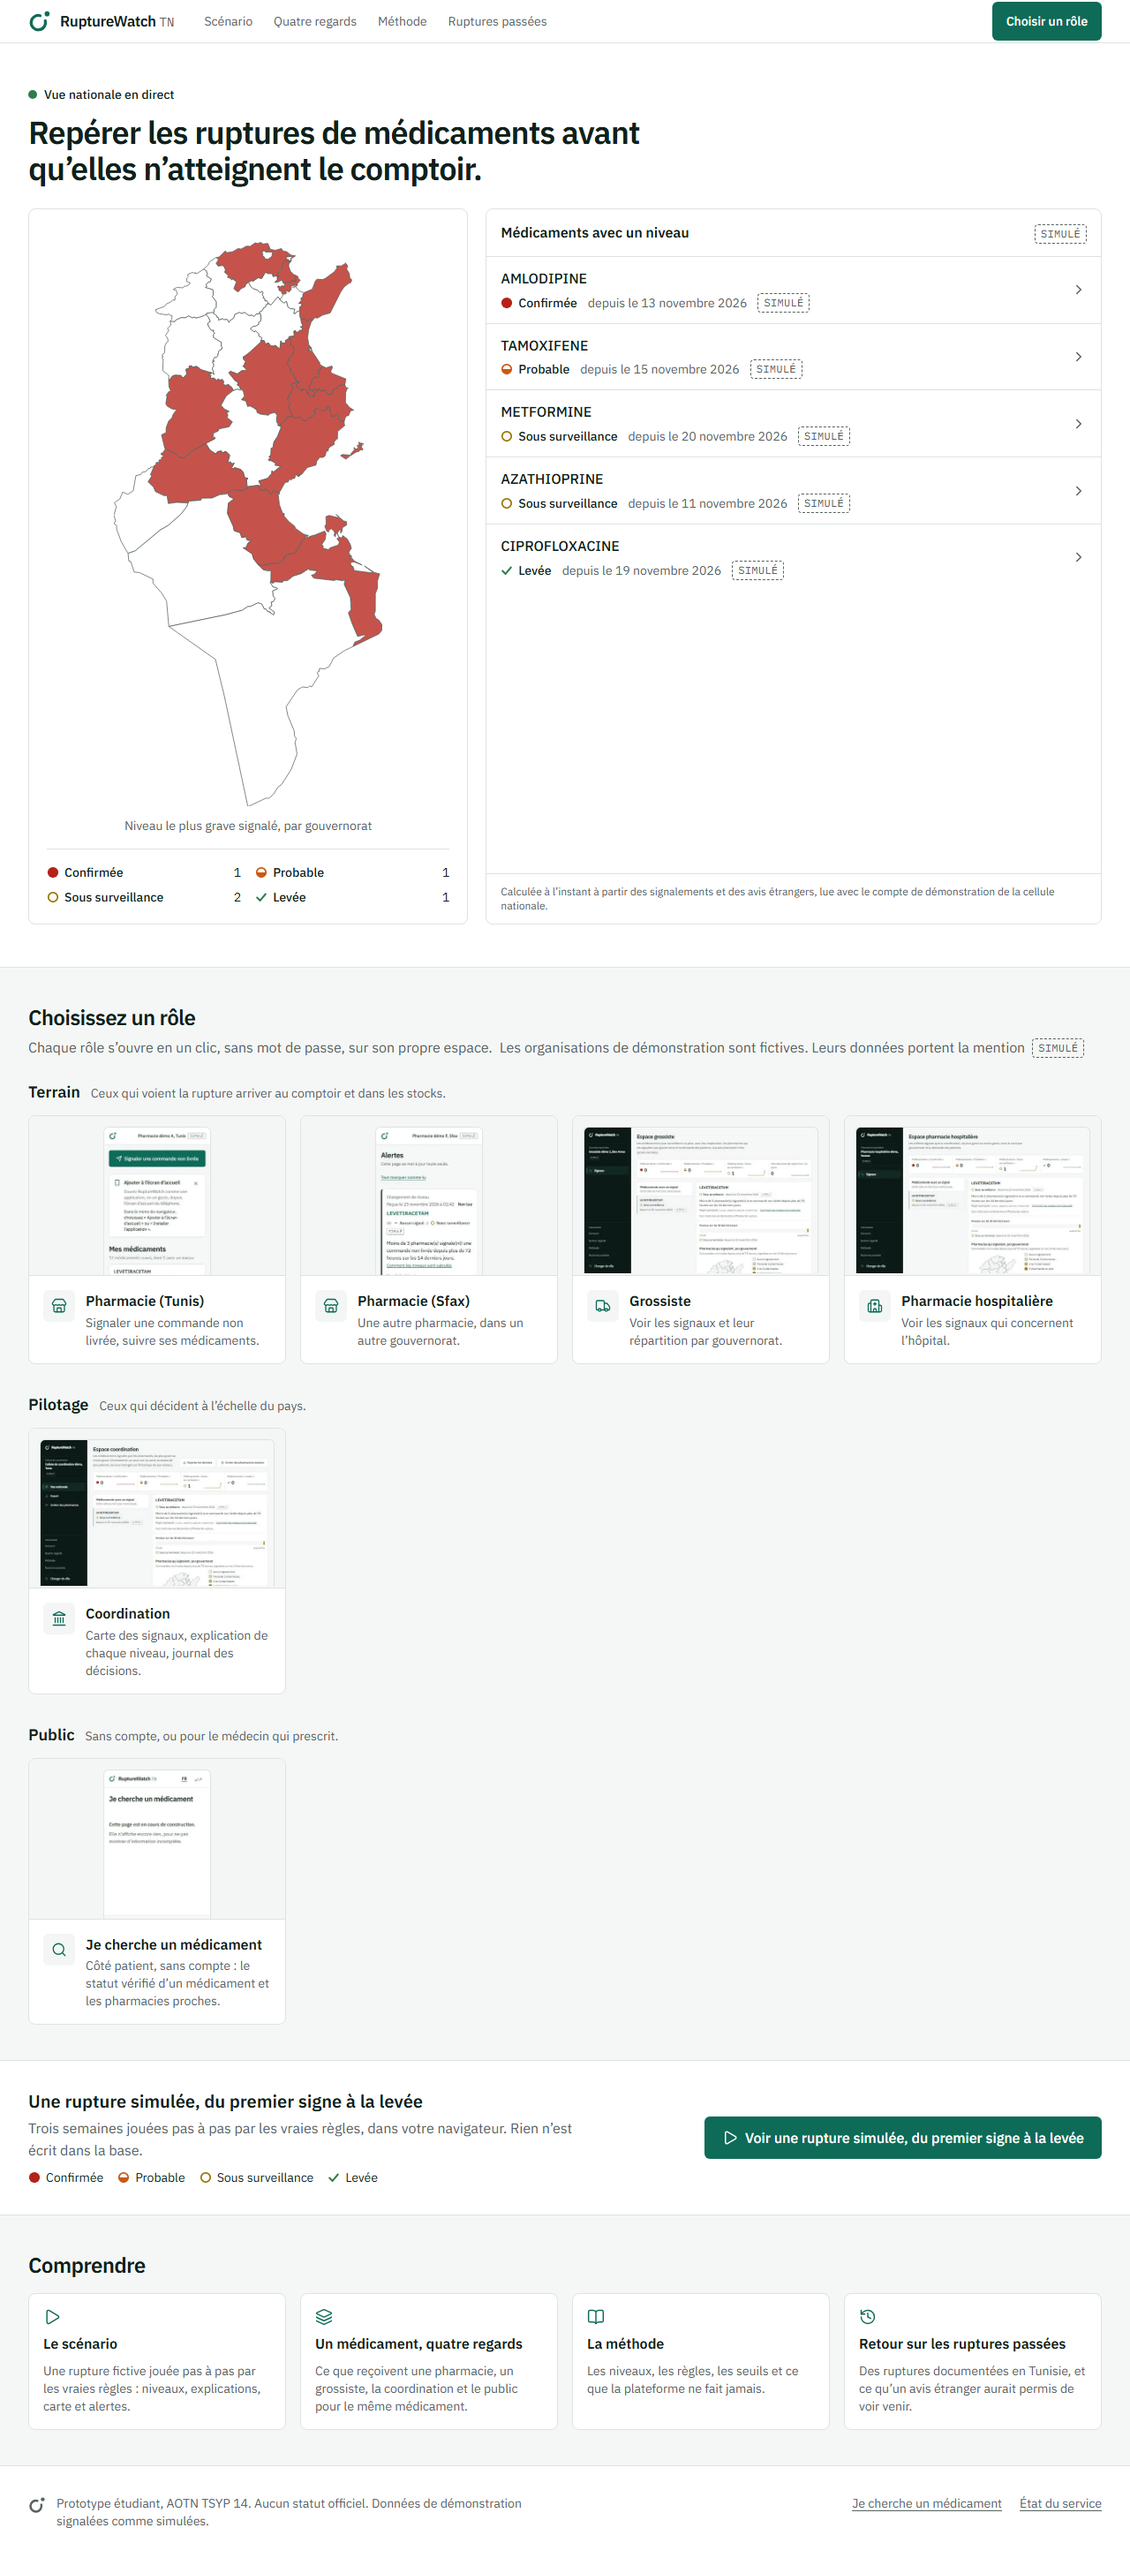
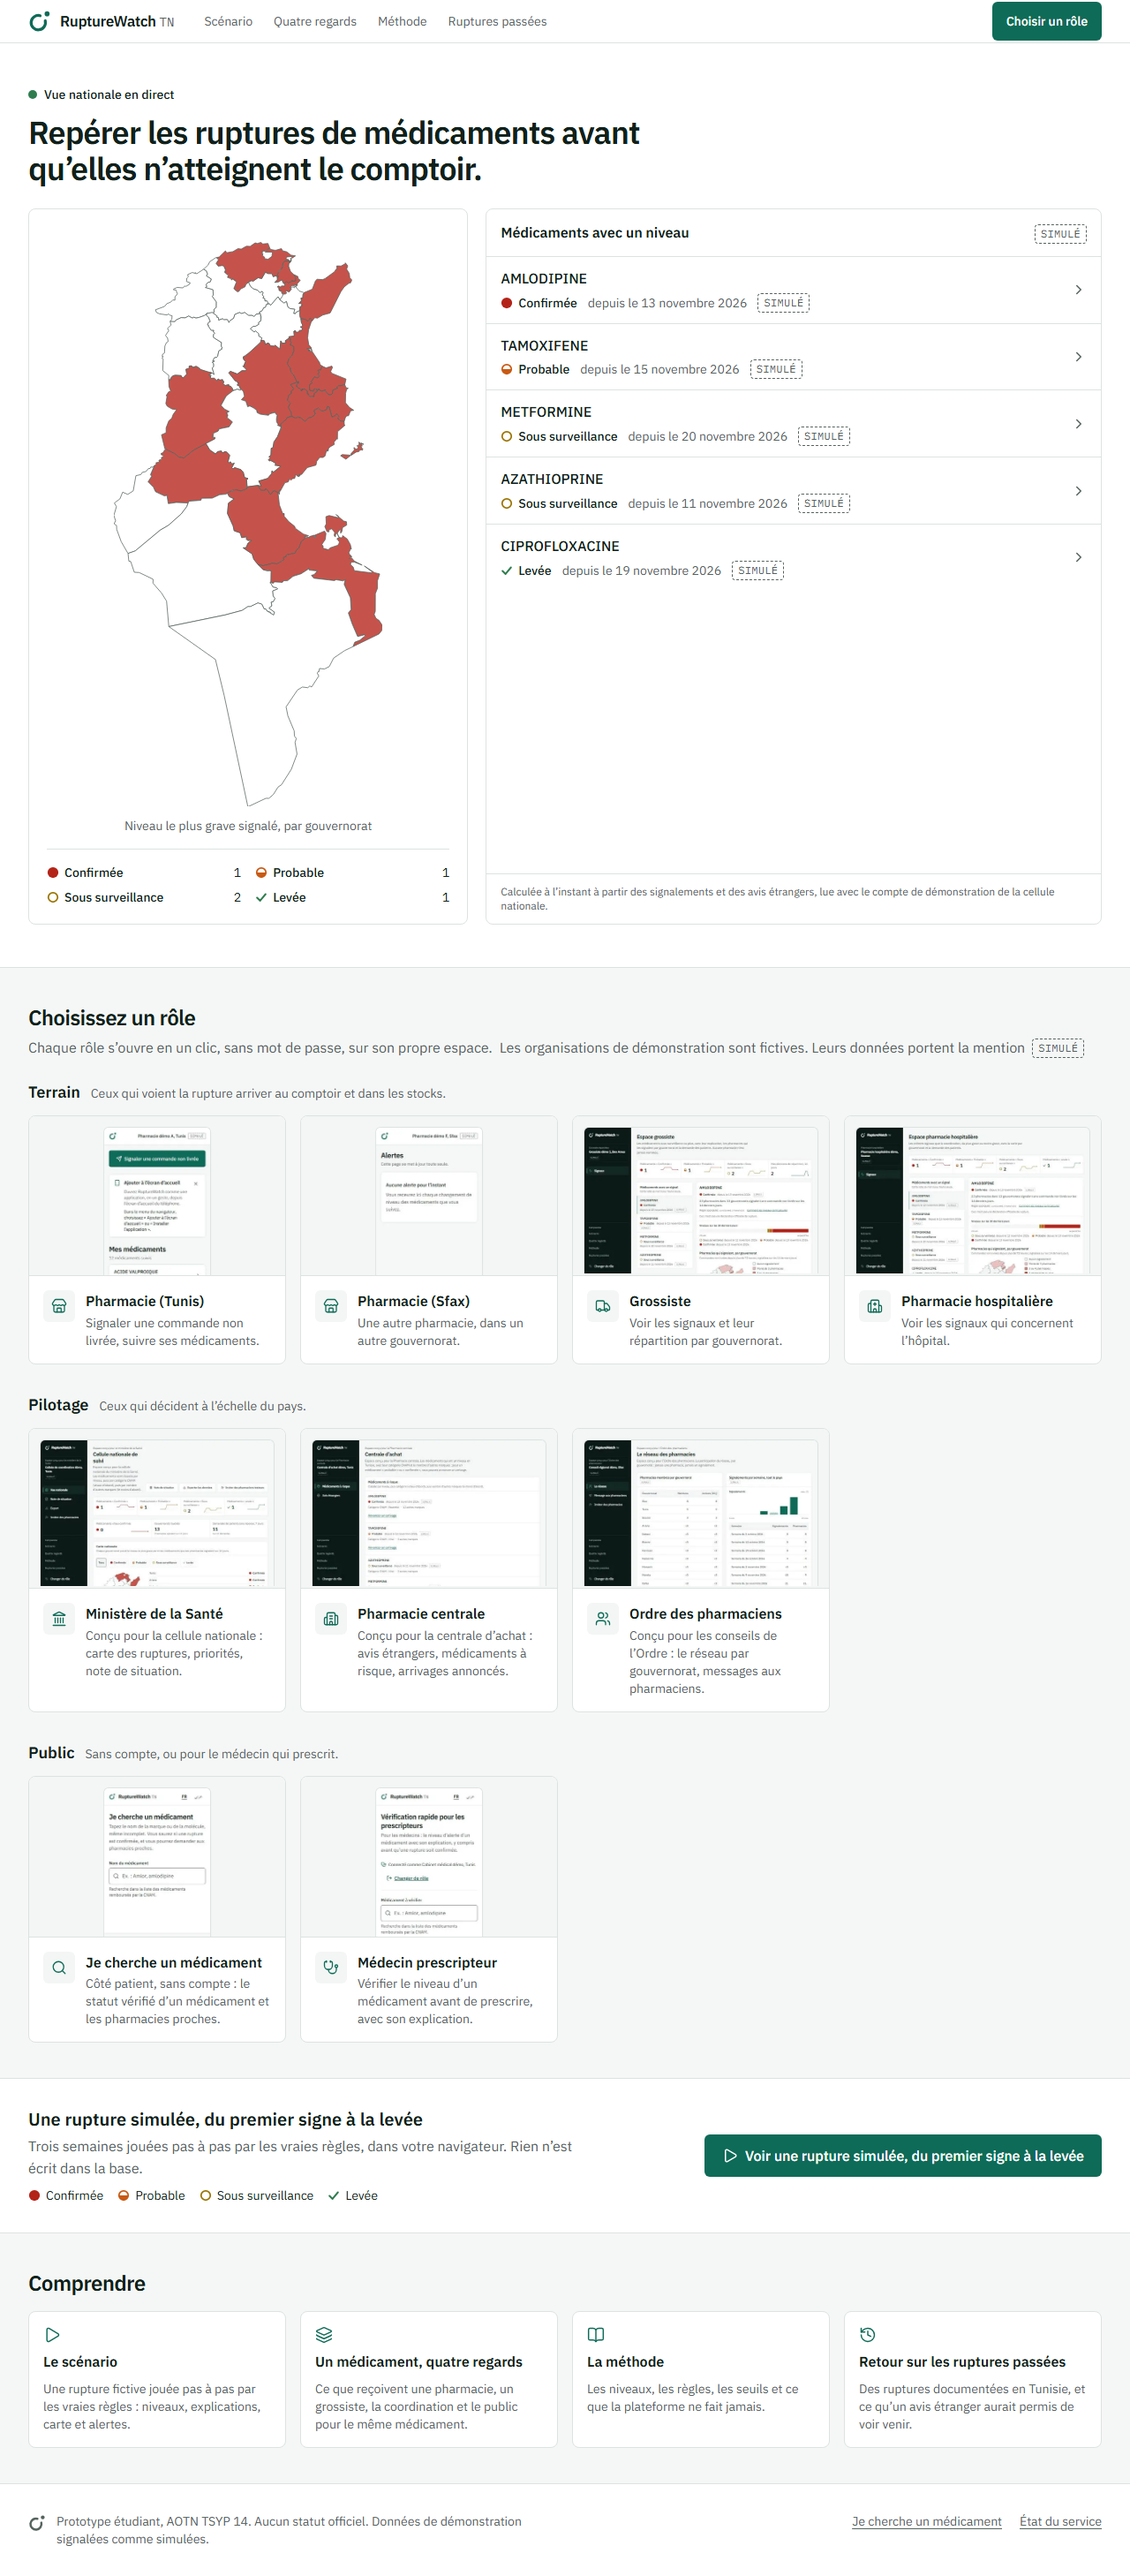
Session 5 report: parts 4 and 5, previews, deployed checks, the salt still to fix

diff --git a/docs/reports/session-5.md b/docs/reports/session-5.md
@@ -2,7 +2,7 @@
 
 Run on `main` (track A), brief `docs/briefs/session-5.md`, parts 1 to 5 in order. Each part is committed and pushed when finished. Deployed site: https://rupturewatch-tn.vercel.app.
 
-This report is written as the session goes. Part 1 (the new design) is on the deployed site; its screenshots are below so the direction can be checked now.
+All five parts are done and on the deployed site. Parts 1 to 3 were done first; the session then stopped at the usage limit and was continued for parts 4 and 5, the home page previews and the deployed checks. One check is still blocked, outside the code: patients' requests on the deployed site wait for `DEVICE_HASH_SALT` to be visible to Production (see the end).
 
 ## Part 1: the new design, on the deployed site
 
@@ -102,10 +102,88 @@ A phone can ask for amlodipine once a day: for a second take, use another privat
 
 All new Arabic texts are in `messages/ar/public.json` under `public.medicines`, `public.medicine`, `public.request`, `public.watch`, `public.past`, `public.prescribers`, `public.origin` and `public.dpm.searchTitle`. The seven texts the brief gives word for word are used as given. The others are my drafts and need a native reader, in particular: "{n} من الأصناف في قائمة الكنام" (presentations), "حريف" (customer, Tunisian usage) in `request.waitingBody`, "استظهر بوصفتك الطبية" (present your prescription), the CNAM categories "حيوي / أساسي / وسيط", and the origin badges "مصدر رسمي / مُختبِر / محاكاة". The professional parts of `/prescripteurs` (level and explanation) stay in French, marked `lang="fr"`.
 
-## Parts 4 and 5
+## Part 4: "levée" holds
 
-Not done in this session: the usage limit was reached after part 3.
+Commit `957cb6a`, migration `20261123200000_signal_cleared_at.sql` applied to the live project before the push.
 
-Part 4, where to start. In `lib/signal/evaluate.ts`, a "levée" moves back to "sous surveillance" whenever `rawLevel` finds an active foreign notice (`foreign_notice_only`), even one published long before the levée (notices stay active 90 days). Reports are not a problem: `quietDays` (14) equals `confirmWindowDays` (14), so no old report is still counted at a levée. The fix needs the levée time after "levée" itself has expired to "aucun signal": `previous.since` is no longer the levée then, so a notice from before the levée would raise the level 7 days later. Proposed: an optional `clearedAt` in `PreviousState`, carried by `evaluate()` and stored with the signal (one migration), and a notice published before `clearedAt` does not count alone; new Tunisian reports raise the level as today. Test first in `tests/signal.test.ts`, then `docs/DECISIONS.md`, the scenario and the methods page.
+- **The rule.** A foreign notice published before a medicine became "levée" no longer raises it on its own. A notice published after the levée, or new Tunisian reports, still do. Gate one is unchanged: notices alone never go above "sous surveillance".
+- **How.** `evaluate()` carries a `clearedAt` time (`PreviousState.clearedAt`, `Evaluation.clearedAt`). It is set when the level becomes "levée" and kept after "levée" expires to "aucun signal", so a 90-day notice from before the levée cannot come back 7 days later. The signal service stores it in `signals.cleared_at` (backfilled from the last "levée" event) and passes it to `apply_signal_evaluation()`, which takes it as a tenth argument (the nine-argument version is dropped in the next migration).
+- **Tests first.** Seven new cases in `tests/signal.test.ts`: the levée time is recorded; a notice active before the levée does not raise it; without a stored time, a shown "levée" counts from its start; once "levée" has expired the old notice still does not count alone; a notice published after the levée raises it to "sous surveillance" and no further (gate one); a new notice from the same regulator counts; new Tunisian reports raise the level as before. The file now has 43 tests; CLAUDE.md §3 still says 31. Plus `tests/signal-service.test.ts` (the time survives the levée fading) and `tests/explore.test.ts` (the scenario's last day is "levée").
+- **Scenario and methods page.** The scenario keeps "levée" to the end (done check 7, `tests/e2e` test 3 passed on the deployed site). The methods page sentence and `docs/DECISIONS.md` say the new rule.
 
-Part 5 (Ministère, Pharmacie centrale, Ordre des pharmaciens): not started.
+## Part 5: the institutions' spaces
+
+Commits `f668a41` to `10dc9e4`. Migrations `20261123200100_institution_types.sql` and `20261123200200_institutions.sql` applied to the live project before the code was pushed; `npm run seed:demo` added the two demo accounts. Deployed commit `702a168`, `/api/health` says schema 22.
+
+**Ministère de la Santé, cellule nationale** (`/coordination`, route and tests kept):
+- Key figures: medicines by level (with 14-day sparklines), vital medicines confirmed, governorates touched, patients' requests unanswered in 7 days. All computed.
+- National map filterable by level ("Tous", "Confirmée", "Probable", "Sous surveillance", "Levée"), with the governorate list beside it.
+- Medicines sorted by level, then CNAM category (vital first), then fewer other brands; each row says its category and other brands. Computed from the CNAM rows (`lib/institutions/catalogue.ts`, `tests/catalogue-facts.test.ts`).
+- Per medicine: the existing panel, the 30-day level band, and two 30-day charts (pharmacies reporting per day, patients' requests per day) with their text tables. Counts below 3 read "<3"; a "<3" bar is hatched.
+- "Note de situation" (`/coordination/note`): one A4 page of computed values and fixed sentences only (levels, confirmed medicines with their governorates and category, the week's wholesaler decisions, unanswered demand, origins, method). "Imprimer ou enregistrer en PDF" opens the browser's print.
+- Export and decision log kept; arrivals announced by the centrale appear in the log.
+
+**Pharmacie centrale** (`central_pharmacy`, `/centrale`, "Centrale d'achat démo, Tunis"):
+- "Médicaments à risque": every medicine with a level, its CNAM category and other brands, in the ministry's order.
+- "Avis étrangers" (`/centrale/amont`): every foreign notice with its regulator, link and date, and the medicine's level in Tunisia.
+- "Annoncer un arrivage" on a "probable" or "confirmée" medicine: an expected date (today to a year ahead) and a band ("moins d'un mois", "un à trois mois", "plus de trois mois de besoins"). Saved through `announce_arrival()` only, with its origin. It never changes a level.
+- Shown to pharmacies on the medicine's page and in its alerts; on the public status of a confirmed medicine as "Arrivage annoncé par la centrale d'achat pour le {date}." with its badge, through `public_arrival()`, which returns only the date and origin, and nothing below "confirmée".
+
+**Ordre des pharmaciens** (`pharmacists_order`, `/ordre`, "Conseil régional démo, Sfax"):
+- "Le réseau": member and active pharmacies by governorate (active: reported or signed in within 30 days), "<3" under three, and national reports per week (chart and table). No name, no id, no report row.
+- "Message aux pharmaciens": the Ordre's own text (10 to 600 characters) to the governorates it ticks. Row-level security delivers it only to pharmacies in those governorates; they see it at the top of "Alertes" with the sender, date, badge and "Ceci n'est pas une déclaration officielle de rupture."
+- "Inviter des pharmacies": the existing tester invitation, from this space.
+
+**Everywhere.** Labels say "Espace conçu pour …". No institution's logo. Demo organisations are fictional and badged "Simulé". `/vues` now shows six panels (centrale and Ordre added), each loaded through its own demo account, with what the database refuses to each.
+
+### Done checks
+
+| Check | Result |
+| --- | --- |
+| 4. Each new role signs in with one click and reads nothing it should not | Passed. One-click sign-in for "Pharmacie centrale" and "Ordre des pharmaciens" on the deployed site (e2e tests 5 and 6). Access tests: `tests/db/institutions.test.ts` (12, on real rows: who can announce, read, write, which governorates receive a message, no name or report reaches the Ordre) and the grants matrix in `tests/db/grants.test.ts` for both tables and seven functions. |
+| 5. An arrival appears on the pharmacy's page and the public status, with its badge, and the level does not change | Passed on the deployed site (e2e test 5): announced from `/centrale` for AMLODIPINE, seen on `/pharmacie/molecule/…` and on the public page, "Confirmée" before and after. Screenshots: [pharmacie-medicament-360](session-5/pharmacie-medicament-360.png), [medicament-statut-360](session-5/medicament-statut-360.png), [medicament-statut-ar-360](session-5/medicament-statut-ar-360.png). |
+| 6. An Ordre message reaches only the chosen governorates | Passed on the deployed site (e2e test 6): sent to Sfax, seen by "Pharmacie (Sfax)", absent for "Pharmacie (Tunis)". Also proven in the database tests. [pharmacie-alertes-sfax-360](session-5/pharmacie-alertes-sfax-360.png). |
+| 7. "Levée" stays visible to the end of the scenario | Passed on the deployed site (e2e test 3). |
+| 8. The note prints on one A4 page with only computed values | Passed on the deployed site (e2e test 7: the printed PDF has one page). |
+| 9. `npm run check`; Lighthouse accessibility 100 | `npm run check` passes (lint, types, 571 tests). Lighthouse accessibility, deployed site, phone and desktop: 100 on `/centrale`, `/centrale/amont`, `/ordre`, `/ordre/message`, `/ordre/invitation`, `/coordination`, `/coordination/note`, `/pharmacie/alertes`, `/vues/<amlodipine>`, `/medicaments/<amlodipine>` and `/`. |
+
+The two rows these checks created (one arrival, one message) were removed afterwards with `npm run verify:clean`, which now covers both tables; the screenshots were taken before that. One fix came out of the checks: the message field's accessible name included its hint, so it now has the short label "Message" and the hint as its description.
+
+Screenshots (deployed site, 360 and 1280 px):
+
+| Page | Phone (360) | Desktop (1280) |
+| --- | --- | --- |
+| Home, with the new tiles | [accueil-360](session-5/accueil-360.png) | [accueil-1280](session-5/accueil-1280.png) |
+| Ministère | [coordination-360](session-5/coordination-360.png) | [coordination-1280](session-5/coordination-1280.png) |
+| Note de situation | [coordination-note-360](session-5/coordination-note-360.png) | [coordination-note-1280](session-5/coordination-note-1280.png) |
+| Centrale, risk list | [centrale-360](session-5/centrale-360.png) | [centrale-1280](session-5/centrale-1280.png) |
+| Centrale, foreign notices | [centrale-amont-360](session-5/centrale-amont-360.png) | [centrale-amont-1280](session-5/centrale-amont-1280.png) |
+| Ordre, network | [ordre-360](session-5/ordre-360.png) | [ordre-1280](session-5/ordre-1280.png) |
+| Ordre, message | [ordre-message-360](session-5/ordre-message-360.png) | [ordre-message-1280](session-5/ordre-message-1280.png) |
+| Pharmacy alerts with an Ordre message | [pharmacie-alertes-sfax-360](session-5/pharmacie-alertes-sfax-360.png) | [pharmacie-alertes-sfax-1280](session-5/pharmacie-alertes-sfax-1280.png) |
+| Pharmacy medicine page with an arrival | [pharmacie-medicament-360](session-5/pharmacie-medicament-360.png) | [pharmacie-medicament-1280](session-5/pharmacie-medicament-1280.png) |
+| `/vues`, six panels | [vues-amlodipine-360](session-5/vues-amlodipine-360.png) | [vues-amlodipine-1280](session-5/vues-amlodipine-1280.png) |
+
+## Home page and previews
+
+- The "Médecin prescripteur" tile was already in the Public group (since `2e2f590`); it lacked a preview. It now has one, shown as a phone screen like the pharmacy's.
+- `npm run previews:build` regenerated all nine previews (both pharmacies, hospital, wholesaler, ministry, centrale, Ordre, prescriber, public), committed in `1fbde5e`. The centrale and Ordre tiles sit in the "Pilotage" group.
+
+## Patient request on the deployed site: still blocked by the salt
+
+Not passed. After both deploys of this session (`1fbde5e` and `702a168`), `/api/health` still says `"patientRequests": false`, and the request page shows "Les demandes aux pharmacies ne sont pas encore ouvertes sur ce site" (e2e test 4, which now runs the full flow instead of being skipped, stops there). The production server does not see a usable `DEVICE_HASH_SALT`. It counts as set only if the variable is present at run time with at least 16 characters. Please check in Vercel → Settings → Environment Variables:
+
+1. the name is exactly `DEVICE_HASH_SALT`;
+2. it is ticked for **Production** (not only Preview or Development);
+3. its value has at least 16 characters (the same value as in `.env.local`);
+4. then redeploy: an existing deployment does not pick up a new variable.
+
+When `/api/health` says `"patientRequests": true`, run `E2E_BASE_URL=https://rupturewatch-tn.vercel.app npx playwright test -g "4\. "` (in PowerShell: `$env:E2E_BASE_URL="https://rupturewatch-tn.vercel.app"; npx playwright test -g "4\. "`). It sends a request for AMLODIPINE in Tunis from a fresh browser, answers it as "Pharmacie (Tunis)" with the name shown, and waits for the pharmacy on the patient's page. Then `npm run verify:clean` does not remove that request (requests are anonymous demand); it is one simulated-pharmacy answer among the demo's, and it expires on its own.
+
+## For the team lead
+
+- **Salt**: above.
+- **Arabic text to review**: `public.medicine.arrival` in `messages/ar/public.json`, "أعلنت مركزية الشراء عن وصول كمية من هذا الدواء يوم {date}." (my draft), in addition to the list in part 3.
+- **CLAUDE.md §3** says 31 tests in `tests/signal.test.ts`; there are now 43. I did not edit CLAUDE.md.
+- **e2e test 2** looked for the "Coordination" tile, renamed "Ministère de la Santé" in part 1; fixed, not rerun (test 1 adds a real report from a demo pharmacy).
+- **Prettier** is not configured in the repository (`npx prettier --check` flags every file, old ones too) and CI does not run it; the project's ESLint is what applies.

diff --git a/tests/e2e/README.md b/tests/e2e/README.md
@@ -23,4 +23,4 @@ All of it comes from demo accounts, whose organisations are marked `simulated`:
 | 6. Ordre message | One `order_messages` row to Sfax from "Conseil régional démo, Sfax". |
 | 7. Note de situation | Nothing. |
 
-Note the time before a run. The team lead removes the rows with `npm run verify:clean -- --since <time> --apply`.
+Note the time before a run. The team lead removes the rows with `npm run verify:clean -- --since <time> --apply` (reports, follows, arrival announcements and Ordre messages; a patient request is anonymous demand and expires on its own).
